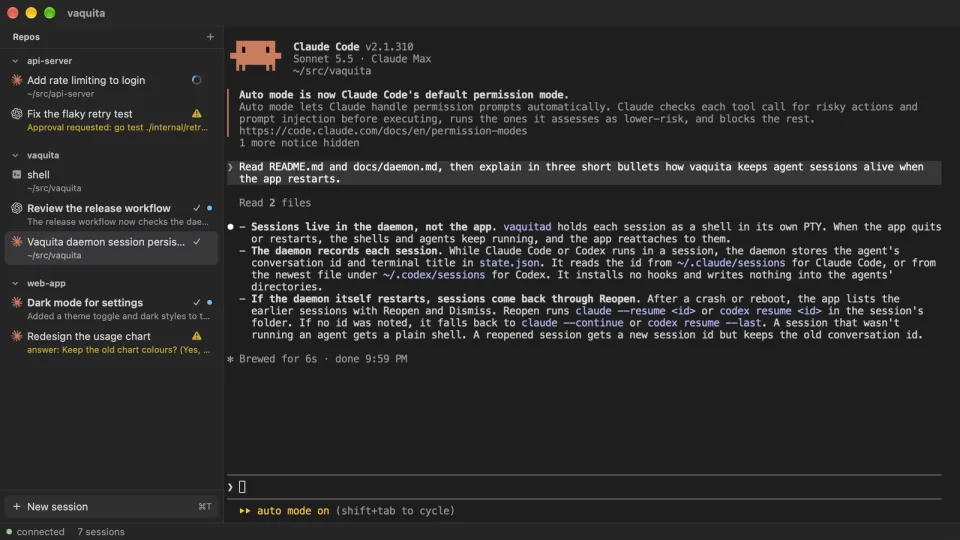
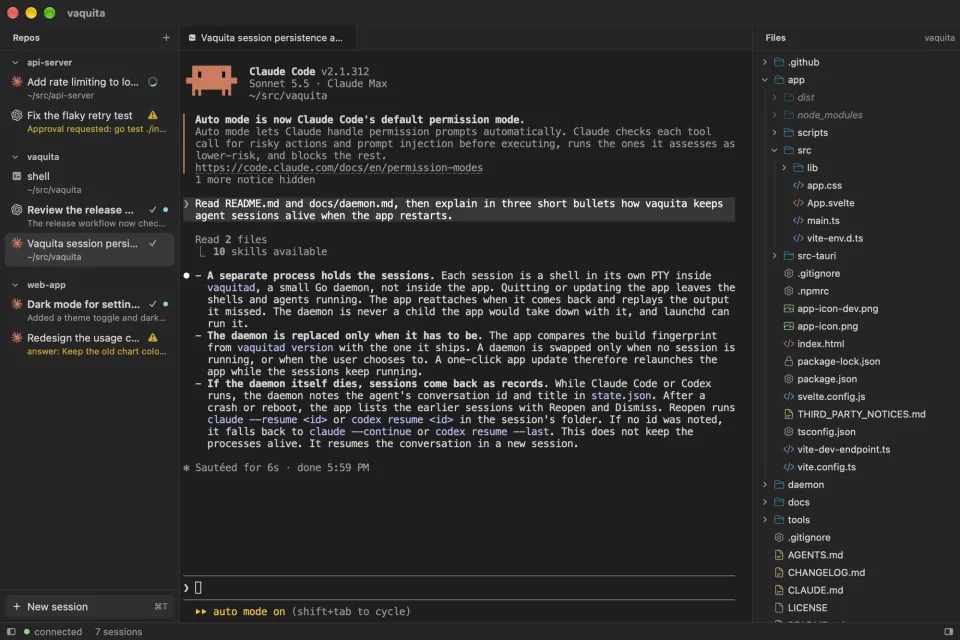
docs(projects): vaquita at 0.1.16, with the files panel, the editor and self-updates
The page was written for 0.1.2. It now opens on vaquita as an agentic
development environment, adds sections on the watched file tree, editing
files an agent also writes, and updating without ending sessions, and
measures the footprint before and after the editor loads. The screenshot
shows the files panel.

diff --git a/_projects/vaquita.md b/_projects/vaquita.md
@@ -1,9 +1,9 @@
 ---
 layout: project
 title: "vaquita"
-description: "A lightweight macOS app for running Claude Code and Codex side by side, with every agent's state in one sidebar (working, waiting for you, or done) and no hooks to install."
+description: "A lightweight macOS app for running Claude Code and Codex side by side: every agent's state in one sidebar, the repo's files and an editor beside the terminal, and no hooks to install."
 tagline: "Agentic Dev Environment for Claude Code & Codex"
-tech_stack: ["Go", "Tauri", "Svelte", "xterm.js", "Claude Code", "Codex CLI", "Rust", "TypeScript", "WebSocket"]
+tech_stack: ["Go", "Tauri", "Svelte", "xterm.js", "Claude Code", "Codex CLI", "Monaco", "Rust", "TypeScript", "WebSocket"]
 github_url: "https://github.com/zeikar/vaquita"
 demo_url: "https://github.com/zeikar/vaquita/releases/latest"
 demo_label: "Download for macOS"
@@ -13,7 +13,7 @@ gadget_no: 27
 date: 2026-10-21
 ---
 
-vaquita is a small desktop app for running AI coding agents, Claude Code and Codex CLI, side by side in the repos they work on. The sidebar lists each repo with its sessions under it, and every session shows what its agent is doing: a spinner while it works, ⚠ with the permission or question it's waiting on, ✓ or ✗ when the turn ends, and a dot until you've looked. A Go daemon holds the terminals, so agents keep running when the app quits. It runs the `claude` and `codex` you already have, writes nothing into their settings, and the [latest release](https://github.com/zeikar/vaquita/releases/latest) is a zip of about 7 MB for Apple Silicon Macs.
+vaquita is a lightweight agentic development environment for macOS: AI coding agents, Claude Code and Codex CLI, run side by side in the repos they work on, with the repo's files and an editor beside the terminal. The sidebar lists each repo with its sessions under it, and every session shows what its agent is doing: a spinner while it works, ⚠ with the permission or question it's waiting on, ✓ or ✗ when the turn ends, and a dot until you've looked. The repo's files sit in a tree on the right, and a file opens in a tab beside the terminal: code in an editor, Markdown as a preview, media as itself. A Go daemon holds the terminals, so agents keep running when the app quits or updates itself. It runs the `claude` and `codex` you already have, writes nothing into their settings, and the [latest release](https://github.com/zeikar/vaquita/releases/latest) is a zip of about 10 MB for Apple Silicon Macs.
 
 ## Status from escape sequences, not hooks
 
@@ -33,12 +33,11 @@ An agent killed with SIGKILL reports nothing. While one is up, the daemon polls 
 
 ## A daemon holds the terminals
 
-Each session is a shell in its own PTY inside `vaquitad`, which launchd runs. The release app installs that LaunchAgent itself, with the `vaquitad` from its own bundle, and the plist stays in vaquita's folder rather than `~/Library/LaunchAgents`, so nothing starts at login. The app connects over a WebSocket on 127.0.0.1: a random port, a token in an owner-only `endpoint.json`, and an Origin check that admits the Tauri webview. Output travels as binary frames with a 9-byte header: type, session id and generation.
+Each session is a shell in its own PTY inside `vaquitad`, which launchd runs. It ships inside the bundle as a helper app with the app's bundle id, icon and signing identifier, so the folder access macOS asks for on the daemon's behalf is listed under one "vaquita" in Privacy & Security, not a second "vaquitad" with a blank icon. The release app installs the LaunchAgent itself, pointing at that helper, and the plist stays in vaquita's folder rather than `~/Library/LaunchAgents`, so nothing starts at login. The app connects over a WebSocket on 127.0.0.1: a random port, a token in an owner-only `endpoint.json`, and an Origin check that admits the Tauri webview. Output travels as binary frames with a 9-byte header: type, session id and generation.
 
 - **Replay that starts on a clean edge.** Every session keeps its last 1 MB of output in a ring buffer, so a reconnecting app gets its screens back by replay. Cutting into an escape sequence or a UTF-8 character would garble that, so the scanner records cut boundaries as output arrives and eviction moves the ring's start to one where it can. A second scanner reads exactly the bytes the ring evicts, so it knows which modes were in effect at the start (alternate screen, mouse tracking, bracketed paste, the kitty keyboard flags), and the replay sets them first.
 - **Backpressure.** The app acknowledges output once xterm.js has parsed it, and the daemon stops sending at 1 MB unacknowledged, so a program flooding its terminal can't grow the webview's write queue without bound.
 - **One writer.** `vaquitad attach` can watch a session from another terminal, but only one client takes input and resizes, the app whenever it's connected. Only its terminal's answers to queries reach the program, so a byte is never answered twice.
-- **Updates that don't kill sessions.** When the app brings a different daemon build, it swaps the daemon only while no session is running, and the daemon agrees to stop only if that's still true. Otherwise a bar offers the restart, since running sessions end with it.
 
 ## Resuming the conversation after a reboot
 
@@ -52,10 +51,35 @@ The app is Tauri 2 with Svelte 5 and xterm.js, so every terminal lives in macOS'
 
 - **Korean input.** WebKit's macOS Korean IME sends no composition events: a syllable starts with an `insertText`, and every later jamo replaces it with an `insertReplacementText`, which xterm.js ignores. vaquita holds the syllable being composed, draws it over the cursor, and sends it once the next one starts or anything else is about to go out. The IME's behaviour was checked first in a WKWebView test bed in `tools/probe`.
 - **Background sessions.** Each session has its own xterm.js terminal that keeps parsing output while hidden, so its agent's status probe and colour queries still get answers, but only the one on screen has a WebGL context. A terminal never shown is never opened, and xterm.js only answers colour queries once opened, so the app answers OSC 10, 11, 12 and palette queries itself.
-- **File links from untrusted output.** ⌘-click opens a path or a `file://` link in its default app, and the daemon sets `FORCE_HYPERLINK=1` so agents emit those links. The Rust side resolves the path first, then reveals it in Finder instead when opening it could run something: an executable, anything in an app bundle, a script, a stored link like `.webloc`, or a file whose default app runs or installs what it opens, such as Terminal, Installer or Shortcuts.
+- **Paths bounded by colour.** Agents colour the paths they print, so a path that isn't a hyperlink ends where its colour does, also one joined across lines. Claude Code draws a path in backticks in a colour of its own, so a Korean particle written right onto it, as in `~/.zshrc을`, stays out of the link without any language-specific trimming. A path an agent wraps onto the next line itself, indenting the rest, is joined back while each part but the last reaches the right edge; if the joined path doesn't exist, ⌘-click opens the part under the pointer.
+- **File links from untrusted output.** ⌘-click opens a path or a `file://` link in a tab of the app, or else in its default app, and the daemon sets `FORCE_HYPERLINK=1` so agents emit those links. The Rust side resolves the path first, then reveals it in Finder instead when opening it could run something: an executable, anything in an app bundle, a script, a stored link like `.webloc`, or a file whose default app runs or installs what it opens, such as Terminal, Installer or Shortcuts.
 
-## About 200 MB for ten sessions
+## A file tree that watches only what's open
 
-Measured with a release build: 10 shell sessions of about 300 lines each, one on screen, left idle for a minute. The app, its three WebKit processes and the daemon came to about 200–230 MB of memory together (about 30 MB for the app, 190 for WebKit, 11 for the daemon), and idle CPU was 0.5% of one core with a terminal on screen, where the cursor blinks, and 0.02% without. The daemon is built without its symbol table and DWARF, which makes it a third smaller.
+The panel on the right shows the selected session's repo as a tree that follows the disk without polling anything. A folder is read when it's expanded, and only expanded folders are watched with FSEvents, each one non-recursively, so an agent writing deep inside the repo costs one filtered callback and nothing sent to the webview; with no folder expanded no watcher thread runs, and a hidden panel reads and watches nothing. A change to a file's contents alone can't change a listing, so it's dropped too, except a write to a `.gitignore`.
 
-vaquita is at 0.1.2, Apple Silicon only. The app is signed with a self-signed certificate and not notarized, so the README has the one command that clears its quarantine flag. Updating means replacing the app; it takes care of the daemon.
+What git ignores, such as `node_modules` or `.env`, is dimmed. Git is asked only when a folder is read, with the folder's names passed to `git check-ignore` on stdin and `core.fsmonitor` off, since a repository's config could otherwise name a command for git to run. A folder lists at most 2000 entries, and a symlink is a row, not a branch: it opens like a file.
+
+## Editing files an agent also writes
+
+Files open in tabs after the terminal, which is always the first: text and code up to 2 MiB that's valid UTF-8 in a Monaco editor, Markdown as a preview with its source a click away, and images, audio and video as themselves. A click in the tree or a ⌘-click opens a preview tab that the next file replaces, so looking through what an agent touched doesn't pile up tabs; an edit or a double-click keeps it.
+
+Agents write to the same files, so each text tab keeps the modification time and length of the file its text came from. A tab you haven't edited reads the file again each time it's shown and takes the new text if either changed, so an agent's edits appear. An edited tab keeps its text, and a save sends that stamp back: if the file no longer matches, the app asks before overwriting it. The text goes to a new temporary file beside the original, the stamp is checked once more just before the rename over it, and `fcopyfile` carries over the original's mode, owner, flags, ACLs and extended attributes such as Finder tags. A failed write, on a full disk say, leaves the original intact. Closing an edited tab, the window, or the app for an update asks first; ⌘Q doesn't.
+
+File contents are as untrusted as terminal output. The Markdown preview is sanitized (no scripts, images, media, SVG, forms, styles, classes or ids) and its links open only http, https and mailto, in the browser. Media comes through Tauri's asset protocol, which serves any file whose type it can't tell as HTML, so a page named `.png` would render. Its URLs only ever go into `<img>`, `<audio>` and `<video>`, which never render HTML, and are never framed or navigated to. PDFs open in their default app, since WebKit showed them blank in a sandboxed frame.
+
+Korean typing needed a fix here too. WebKit has no EditContext, so typing goes through Monaco's hidden textarea, and with Monaco's accessibility support at its default, that textarea holds a page of text that WebKit scrolls a few pixels off Monaco's alignment, which shook the line while the IME composed. vaquita turns it off.
+
+## Updating without ending sessions
+
+The app updates itself. It checks the latest release's feed 15 seconds after launch and every six hours, and a notice offers a newer version; one click downloads the archive, checks its minisign signature against the public key the app ships with, swaps the new bundle in for itself (one step on APFS) and relaunches. The signature also names the version it was made for, which must be the feed's, so an altered feed can't pass an older release off as a newer one. The update stays in Rust from check to install: the webview has no updater permission, only ever learns a version, and never names a URL. The app downloaded the archive itself, so the new bundle has no quarantine flag. It relaunches with `open` after quitting, so it keeps its Dock tile.
+
+Sessions keep running through the update, in the daemon, which goes on running its old binary until the relaunched app checks its build. A daemon's build carries a fingerprint of its committed code, so a release that leaves the daemon alone ships the same build and restarts nothing. When the daemon has changed, the app swaps it only while no session is running, and the daemon agrees to stop only if that's still true. Otherwise a notice offers the restart, since running sessions end with it.
+
+## About 200 MB until the editor loads
+
+Measured with a release build, before the files panel was added: 13 shell sessions, 9 of them holding about 300 lines of output, one of those on screen, left idle for a minute. The app, its three WebKit processes and the daemon came to about 205 MB of memory together (32 MB for the app, 156 for WebKit, 16 for the daemon), about 110 MB with 10 sessions and none on screen, and idle CPU was 0%. The daemon is built without its symbol table and DWARF, which makes it a third smaller.
+
+Monaco is the heaviest part, about 1.3 MB of the download and about 100 MB of memory, so it's a chunk of its own behind one dynamic import that the first text tab triggers, and a run that only uses terminals never fetches it. Opening that first file brings the total to about 320 MB, and Monaco stays loaded until the app restarts, at about 300 MB with its tab closed. It ships without Monaco's CSS, HTML, JSON and TypeScript language workers, keeping highlighting for every language, so the editor worker is the only one.
+
+vaquita is at 0.1.16, Apple Silicon only. The app is signed with a self-signed certificate and not notarized, so the README has the one command that clears the quarantine flag on the first install; releases after that arrive in the app.
